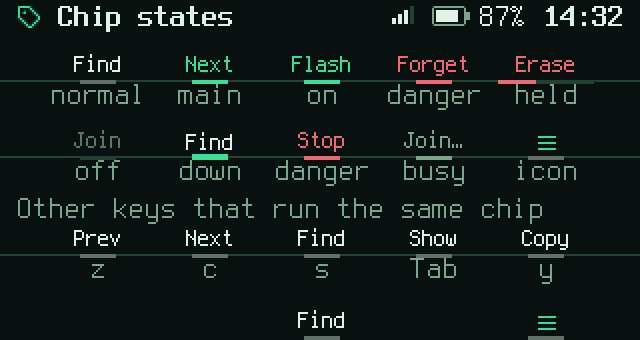
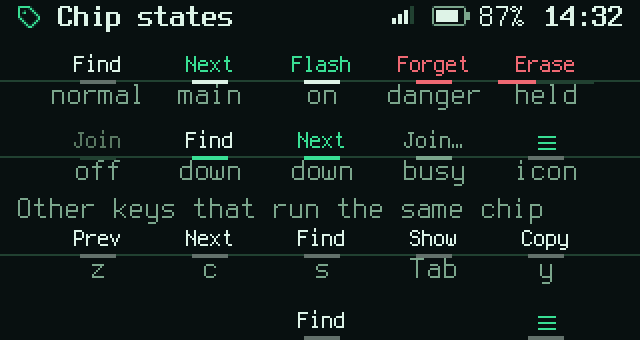
Chips: a press changes only the bar's colour, and a main chip's bar is white
Nothing moves while a key is down: the bar keeps its height and turns
accent. A main or on chip underlines in the text colour, so pressing it
still shows.

Claude-Session: https://claude.ai/code/session_013xPXD2HsxDzu26s7UFQUSS

diff --git a/crates/gh0st-ui/src/widgets.rs b/crates/gh0st-ui/src/widgets.rs
@@ -531,6 +531,9 @@ pub enum Look {
     Disabled,
     /// While its key is down.
     Pressed,
+    /// A main or on chip while its key is down: as Pressed, keeping its
+    /// accent word.
+    MainPressed,
     /// Held to confirm, filling red: 0 to 100.
     Hold(u8),
     /// Working: no second press.
@@ -613,9 +616,9 @@ fn chip_ink(c: &mut Canvas, t: &Theme, r: Rect, ch: &Chip, ink: Color, icon_ink:
 }
 
 /// One chip: its word over a short bar, centred on `cx` over its key, no
-/// fill behind. The bar says what the word is: muted for most, accent for
-/// the main action, red for danger. Pressed, the bar thickens and the word
-/// drops a row, as a key does. `w` is the room it may take.
+/// fill behind. The bar says what the word is: muted for most, the text
+/// colour for the main action, red for danger. Pressed, the bar turns
+/// accent and nothing moves. `w` is the room it may take.
 pub fn chip(c: &mut Canvas, t: &Theme, cx: i32, top: i32, ch: &Chip, w: i32) {
     chip_on(c, t, cx, top, ch, w, false);
 }
@@ -633,17 +636,17 @@ fn chip_on(c: &mut Canvas, t: &Theme, cx: i32, top: i32, ch: &Chip, w: i32, shad
         ch
     };
     let k = &t.c;
-    let sink = i32::from(ch.look == Look::Pressed);
-    let r = Rect::new(cx - w / 2, top + sink, w, t.m.chip_h);
+    let r = Rect::new(cx - w / 2, top, w, t.m.chip_h);
     // Word, icon, bar and its height.
     let quiet = mix(k.bg, k.fg, 110);
     let (ink, icon_ink, bar, bar_h) = match ch.look {
         Look::Normal => (k.fg, k.accent, quiet, 2),
-        Look::Main | Look::On => (k.accent, k.accent, k.accent, 2),
+        Look::Main | Look::On => (k.accent, k.accent, k.fg, 2),
         Look::Danger | Look::Hold(_) => (k.critical, k.critical, k.critical, 2),
         Look::DangerMain => (k.critical, k.critical, k.critical, 3),
         Look::Disabled => (k.disabled(), k.disabled(), k.border, 2),
-        Look::Pressed => (k.fg, k.accent, k.accent, 3),
+        Look::Pressed => (k.fg, k.accent, k.accent, 2),
+        Look::MainPressed => (k.accent, k.accent, k.accent, 2),
         Look::Busy => (k.muted, k.muted, k.muted, 2),
     };
     let foot = top + t.m.chip_h + t.m.chip_foot;
@@ -2031,6 +2034,37 @@ mod tests {
             for selected in [false, true] {
                 let fill = neutral_fill(&t, selected);
                 assert!(contrast(p.accent, fill) >= 3.0, "{} {selected}", p.name);
+            }
+        }
+    }
+
+    #[test]
+    fn a_pressed_chip_only_changes_its_bar() {
+        let pairs = [
+            (Look::Normal, Look::Pressed),
+            (Look::Main, Look::MainPressed),
+            (Look::On, Look::MainPressed),
+        ];
+        for p in PALETTES {
+            let t = Theme::new(*p);
+            let top = t.m.height - t.m.chip_foot - t.m.chip_h;
+            let bar_top = top + t.m.chip_h + t.m.chip_foot - 2;
+            for (icon, word) in [("search", "Find"), ("aperture", "")] {
+                for (up, down) in pairs {
+                    let draw = |look| {
+                        let mut c = Canvas::new(t.m.width, t.m.height);
+                        let mut chips = [Chip::default(); 5];
+                        chips[2] = Chip { icon, word, look };
+                        action_bar(&mut c, &t, &chips);
+                        c
+                    };
+                    let (a, b) = (draw(up), draw(down));
+                    for y in 0..bar_top {
+                        assert_eq!(a.row(y), b.row(y), "{} {word} {up:?}: row {y}", p.name);
+                    }
+                    let bar_changed = (bar_top..t.m.height).any(|y| a.row(y) != b.row(y));
+                    assert!(bar_changed, "{} {word} {up:?}", p.name);
+                }
             }
         }
     }

diff --git a/crates/gh0st-app/src/runtime.rs b/crates/gh0st-app/src/runtime.rs
@@ -1640,7 +1640,11 @@ impl Runtime {
                         _ if self.pressed.is_some_and(|p| p.1 == n)
                             && !matches!(c.look, Look::Danger | Look::DangerMain) =>
                         {
-                            Look::Pressed
+                            if matches!(c.look, Look::Main | Look::On) {
+                                Look::MainPressed
+                            } else {
+                                Look::Pressed
+                            }
                         }
                         _ => c.look,
                     };

diff --git a/crates/gh0st-ui/examples/design.rs b/crates/gh0st-ui/examples/design.rs
@@ -412,7 +412,7 @@ fn chip_states(t: &Theme) -> Canvas {
         [
             (l("check", "Join", Look::Disabled), "off"),
             (l("search", "Find", Look::Pressed), "down"),
-            (l("square", "Stop", Look::Danger), "danger"),
+            (l("arrow-right", "Next", Look::MainPressed), "down"),
             (l("check", "Join", Look::Busy), "busy"),
             (menu(), "icon"),
         ],

diff --git a/docs/design.md b/docs/design.md
@@ -232,12 +232,12 @@ alone; a chip with no word, the menu's ≡, shows its icon.
 | State | Looks | For |
 |---|---|---|
 | normal | plain word, a muted bar | most actions |
-| main, on | accent word, an accent bar | the page's main action, or a toggle that is on |
+| main, on | accent word, a bar in the text colour (white on a dark palette) | the page's main action, or a toggle that is on |
 | danger | red word, a red bar | Forget, Stop, Close |
 | danger, held | the bar runs the chip's width and fills red | Erase, close all apps: hold it 0.7 s |
 | armed | red word, a thicker red bar | pressed once, press again |
 | disabled | faint word, a `border` bar | can't be used now; the key does nothing |
-| pressed | the bar thickens, the word drops a row | while its key is down |
+| pressed | the bar turns accent; nothing moves | while its key is down |
 | busy | the word and "…", muted | working: no second press |
 
 Rows change the chips. On a choice row, 5 and 7 read Prev and Next and z and
